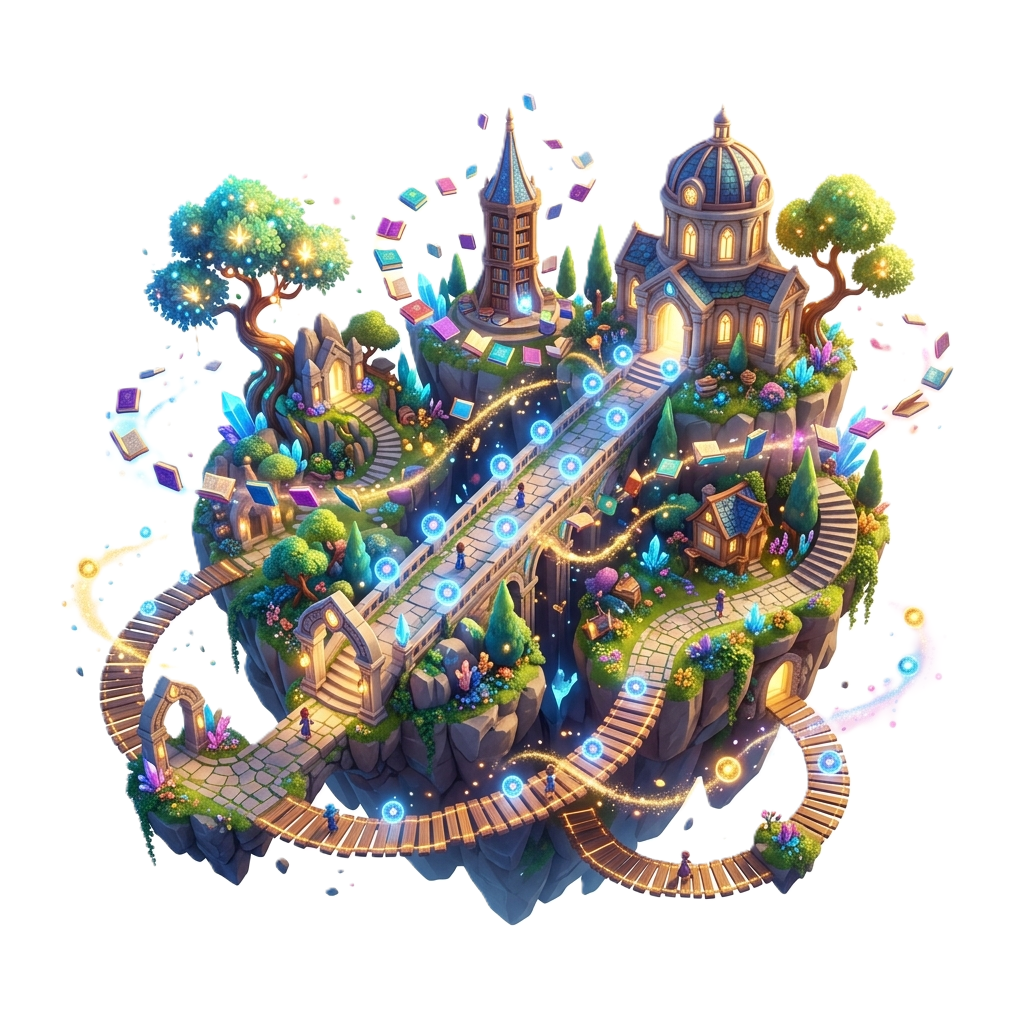
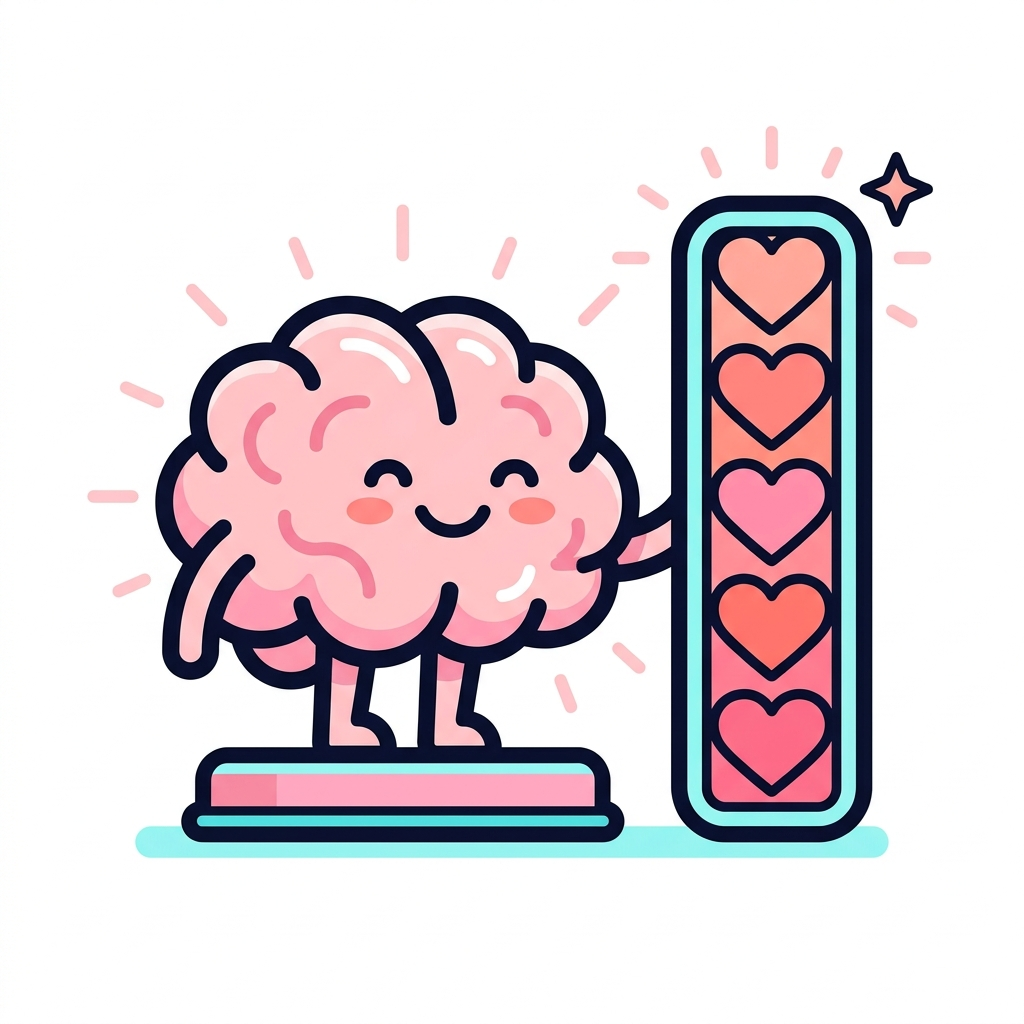
fixed scrolling issue in onboarding screen and changed the pictures used

diff --git a/src/components/UI/OnboardingScreen.jsx b/src/components/UI/OnboardingScreen.jsx
@@ -80,7 +80,7 @@ export default function OnboardingScreen() {
       <div className="absolute top-1/4 right-1/4 w-96 h-96 bg-rose-300/20 rounded-full filter blur-3xl animate-pulse" />
       <div className="absolute bottom-1/4 left-1/4 w-80 h-80 bg-blue-300/20 rounded-full filter blur-3xl animate-pulse" style={{ animationDelay: '2s' }} />
 
-      <div className="relative z-10 w-full max-w-2xl bg-white border-4 border-slate-800 p-6 sm:p-8 rounded-3xl shadow-[8px_8px_0px_rgba(30,41,59,1)] flex flex-col items-center max-h-[95vh] h-sm:max-h-[92vh] h-sm:p-4 h-sm:w-[95%] h-xs:p-3 overflow-y-auto scrollbar-thin">
+      <div className="relative z-10 w-full max-w-2xl bg-white border-4 border-slate-800 p-6 sm:p-8 rounded-3xl shadow-[8px_8px_0px_rgba(30,41,59,1)] flex flex-col items-center max-h-[95vh] h-sm:max-h-[92vh] h-sm:p-4 h-sm:w-[95%] h-xs:p-3 overflow-hidden">
         
         {/* Progress Dots */}
         <div className="flex gap-2 mb-6 h-sm:mb-3">
@@ -93,7 +93,7 @@ export default function OnboardingScreen() {
         </div>
 
         {/* Carousel Content */}
-        <div className="w-full shrink-0 flex flex-col items-center">
+        <div className="w-full flex-1 flex flex-col items-center justify-center min-h-0">
           <AnimatePresence mode="wait">
             <motion.div
               key={currentSlide}
@@ -101,14 +101,14 @@ export default function OnboardingScreen() {
               animate={{ opacity: 1, x: 0 }}
               exit={{ opacity: 0, x: -20 }}
               transition={{ duration: 0.3 }}
-              className="flex flex-col items-center w-full"
+              className="flex flex-col items-center w-full min-h-0"
             >
-              <div className="w-full max-w-70 sm:max-w-85 mb-4 sm:mb-6 h-sm:max-w-35 h-sm:mb-3 h-xs:max-w-25 animate-cloud-bob relative">
+              <div className="w-full max-w-48 sm:max-w-64 mb-4 sm:mb-6 h-sm:max-w-32 h-sm:mb-3 h-xs:max-w-24 animate-cloud-bob relative shrink min-h-0 flex justify-center">
                 <div className="absolute inset-4 bg-indigo-200/50 rounded-full filter blur-xl animate-pulse"></div>
                 <img 
                   src={slides[currentSlide].image} 
                   alt={slides[currentSlide].title}
-                  className="w-full h-auto drop-shadow-2xl relative z-10 hover:scale-105 transition-transform duration-500 ease-out mix-blend-multiply rounded-3xl"
+                  className="w-full h-full object-contain max-h-[30vh] drop-shadow-2xl relative z-10 hover:scale-105 transition-transform duration-500 ease-out mix-blend-multiply rounded-3xl"
                   style={{ maskImage: 'radial-gradient(circle at center, black 50%, transparent 100%)', WebkitMaskImage: 'radial-gradient(circle at center, black 50%, transparent 100%)' }}
                 />
               </div>
